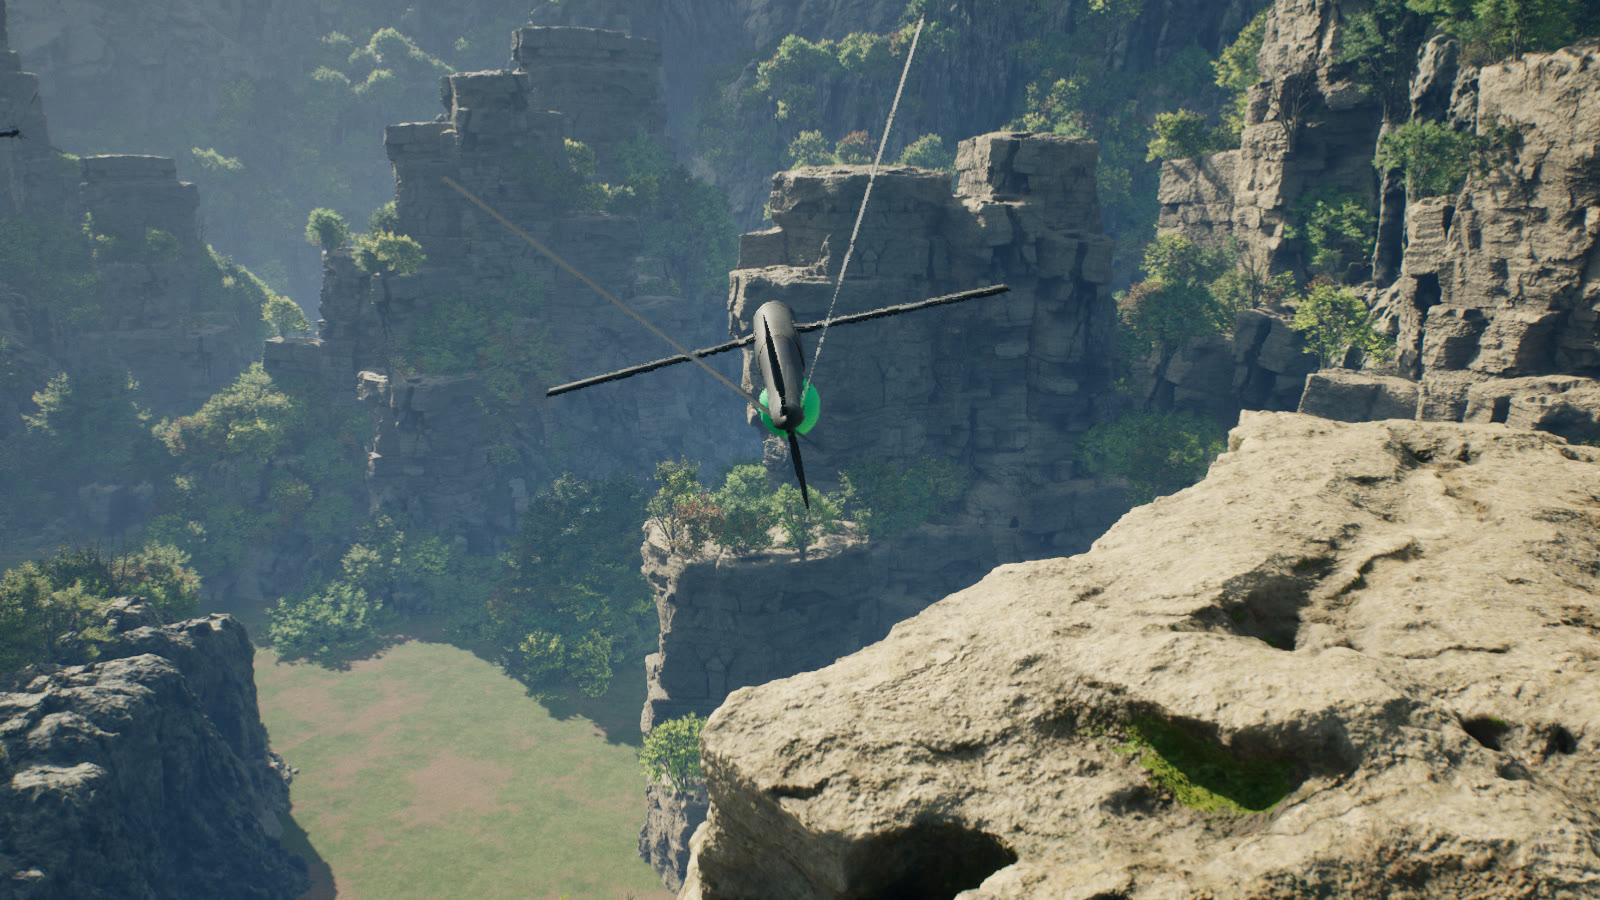
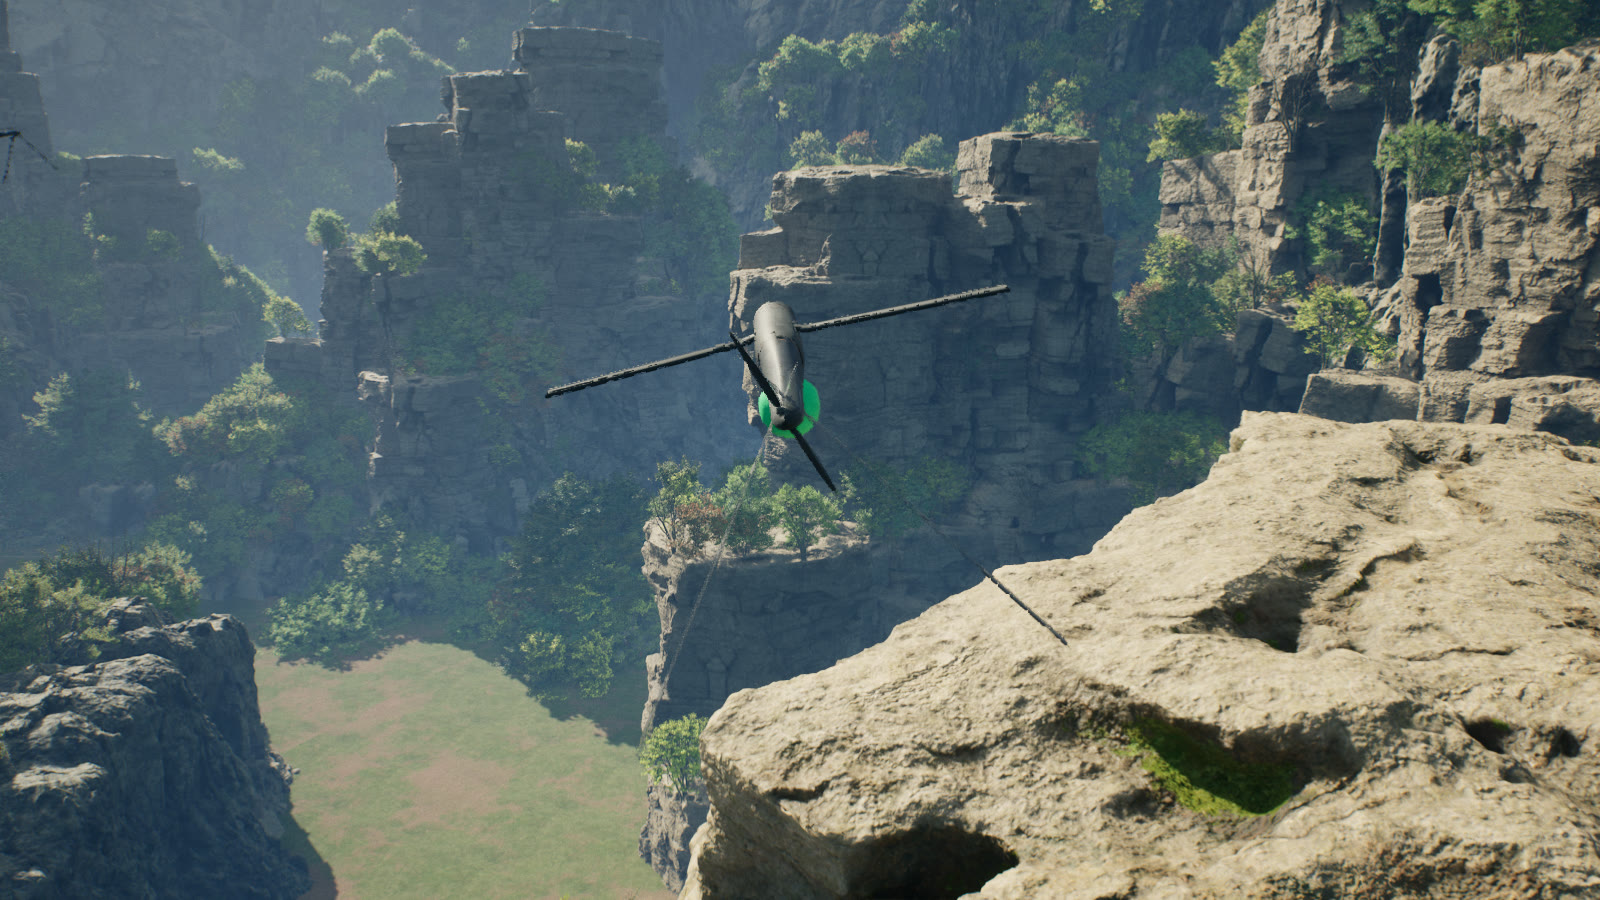
ue5-plugin: spin the ALTIUS model's tail propeller, not its tail surfaces; recapture the images
The viewer turned the model's two tail surfaces (C-Ext001 and C-Ext002, with Cylinder015 and
Cylinder016) as if they were the propeller, so large flat plates swept round like rotor blades.
The pusher propeller is the two thin blades at the very tail (Cylinder006 and Cylinder012) and the
four small cylinders at their roots (Cylinder007, 008, 010, 011). The part lists and the hub are
changed to those, found from each mesh's size and position in the glTF and confirmed in
consecutive frames, where the small blades turn and the tail surfaces stay still.

The hero GIF and the three README screenshots are recaptured with the fix. docs/MODELS.md said a
folder model has no spinning propeller and no state indicator, which was out of date; it now
describes what the viewer does. A dated note is added to the viewer phase document.

diff --git a/ue5-plugin/SwarmSim/Source/SwarmSim/Private/SwarmPlayback.cpp b/ue5-plugin/SwarmSim/Source/SwarmSim/Private/SwarmPlayback.cpp
@@ -36,11 +36,17 @@ constexpr double kAccelerationWindowTicks = 5.0;
 constexpr double kAttitudeSmoothing = 0.2;
 // The propeller of a folder model turns this many degrees per meter per second of airspeed.
 constexpr double kPropellerDegPerMps = 140.0;
-// Mesh-name prefixes of the ALTIUS model's propeller: two blades and their two hubs. The glTF
-// gives its nodes generic names; these were found from the world-space bounds of each mesh.
-const TCHAR* const kPropellerParts[] = {TEXT("C-Ext001"), TEXT("C-Ext002"), TEXT("Cylinder015"),
-                                        TEXT("Cylinder016")};
-const TCHAR* const kPropellerHubs[] = {TEXT("Cylinder015"), TEXT("Cylinder016")};
+// Mesh-name prefixes of the ALTIUS model's pusher propeller: two thin blades (Cylinder006 and
+// Cylinder012) and the four small cylinders at their roots, at the very tail of the fuselage. The
+// spinner (Mesh002) is nearly round about the axis and stays still. The glTF gives its nodes
+// generic names; these were found from the world-space bounds of each mesh. C-Ext001 and C-Ext002,
+// with Cylinder015 and Cylinder016, are tail surfaces further forward and must not turn.
+const TCHAR* const kPropellerParts[] = {TEXT("Cylinder006"), TEXT("Cylinder007"),
+                                        TEXT("Cylinder008"), TEXT("Cylinder010"),
+                                        TEXT("Cylinder011"), TEXT("Cylinder012")};
+// The root cylinders; the center of their bounds is the propeller's hub on the fuselage axis.
+const TCHAR* const kPropellerHubs[] = {TEXT("Cylinder007"), TEXT("Cylinder008"),
+                                       TEXT("Cylinder010"), TEXT("Cylinder011")};
 
 bool NameStartsWithAny(const UStaticMesh* Mesh, const TCHAR* const* Prefixes, int32 Count) {
   const FString Name = Mesh->GetName();

diff --git a/docs/MODELS.md b/docs/MODELS.md
@@ -858,7 +858,7 @@ Limits. The simulation's cylinders are thin, so a pine looks bulkier than the cy
 
 `ASwarmPlayback` plays a run log. It reads the log with the replay reader (`swarm::Replay`) and moves one drone for each agent along the logged path: between two logged frames the position is the replay's cubic Hermite curve, and on a logged tick it is the logged position. The viewer computes nothing about the simulation.
 
-Display only. The log holds no attitude, so heading is the direction of the horizontal velocity (kept when the speed is under 0.5 m/s), and lean comes from the horizontal acceleration over gravity, taken over 5 ticks, split into pitch and roll, limited to 22 degrees, and smoothed with a 0.2 s time constant. Rotors spin at a fixed rate while a drone is alive. Drone color follows the logged fallback state (nominal green, degraded comms yellow, degraded navigation orange, safe hold red, failed dark gray). The drones are drawn 4 times life size by default (`-SwarmScale`) so they can be seen across a level. The drone is a stand-in built from engine cubes and cylinders, unless `-SwarmDroneModel=/Game/FOLDER` names a content folder. Every static mesh in that folder is then drawn as one aircraft, kept at the position it was authored at, centered, turned so that its +Y axis points along the heading, and scaled to a wingspan of 3.66 m before `-SwarmScale`. The pieces are not animated and take no color from the fallback state, so a model has no spinning propeller and does not show the fallback state; those need the model's parts identified, which has not been done. The folder is scanned when the drones are built, so a game finds assets that were never opened.
+Display only. The log holds no attitude, so heading is the direction of the horizontal velocity (kept when the speed is under 0.5 m/s), and lean comes from the horizontal acceleration over gravity, taken over 5 ticks, split into pitch and roll, limited to 22 degrees, and smoothed with a 0.2 s time constant. Rotors spin at a fixed rate while a drone is alive. Drone color follows the logged fallback state (nominal green, degraded comms yellow, degraded navigation orange, safe hold red, failed dark gray). The drones are drawn 4 times life size by default (`-SwarmScale`) so they can be seen across a level. The drone is a stand-in built from engine cubes and cylinders, unless `-SwarmDroneModel=/Game/FOLDER` names a content folder. Every static mesh in that folder is then drawn as one aircraft, kept at the position it was authored at, centered, turned so that its +Y axis points along the heading, and scaled to a wingspan of 3.66 m before `-SwarmScale`. The model's materials take no color from the fallback state, so a small sphere on top of the fuselage shows it. For the ALTIUS 700M model of ADR 0010, the pusher propeller turns about the fuselage axis, at 140 degrees per meter per second of speed and only while the drone is alive. Its parts are the two thin blades (`Cylinder006` and `Cylinder012`) and the four small cylinders at their roots (`Cylinder007`, `Cylinder008`, `Cylinder010`, `Cylinder011`), found by name from the size and position of each mesh in the file. The tail surfaces (`C-Ext001`, `C-Ext002`, `Cylinder015`, `Cylinder016`) and the spinner (`Mesh002`) do not turn. A folder that holds a different model has no meshes with those names, so nothing in it spins. The folder is scanned when the drones are built, so a game finds assets that were never opened.
 
 Coordinates are converted with `SwarmCoordinates.h`: meters to centimeters, and y negated because Unreal is left-handed. `-SwarmAnchor=X,Y` puts the simulation's origin at that point of the level, in centimeters; heights are used as they are.
 

diff --git a/docs/phases/phase-08-unreal-viewer.md b/docs/phases/phase-08-unreal-viewer.md
@@ -127,3 +127,5 @@ MODELS.md sections for the replay reader and the interpolation, the scene export
 ### What was tried for the generated scene and not kept
 
 A lighting rig prototype (low sun, sky atmosphere, volumetric clouds, height fog, exposure, bloom, Lumen, and the pack's mountain ring as a backdrop) improved depth and mood in the renders, but not the quality of the vegetation and ground, which is the pack's own. It was not ported into the plugin. City Sample (Epic's urban sample) looked photographic and ran as a game, but a city is a poor setting for what the simulation models (see decision 0009). The Electric Dreams project's `SP_HoverDrone` plugin is a flyable camera pawn with no drone model.
+
+- 2026-10-22: The propeller of the ALTIUS model was wrong. The viewer turned the two tail surfaces (`C-Ext001`, `C-Ext002`, with `Cylinder015` and `Cylinder016`) instead of the small two-blade pusher propeller at the tail (`Cylinder006` and `Cylinder012` with four root cylinders), so the long flat plates swept round like rotor blades. Found from the per-mesh sizes and positions in the glTF and confirmed in consecutive frames, where the small blades turn and the tail surfaces stay still. The hero GIF and the README screenshots were recaptured.
